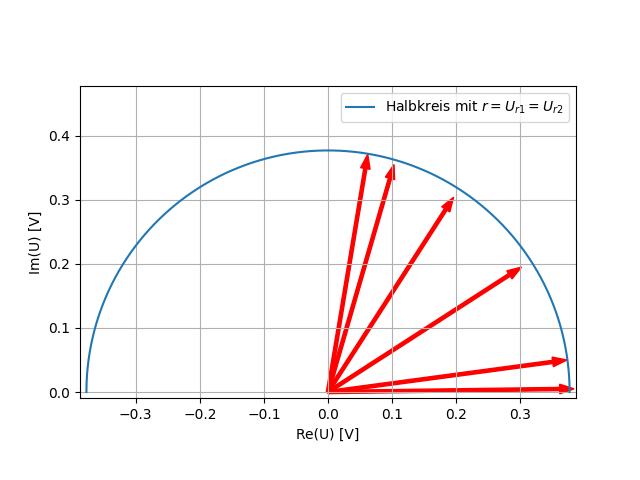
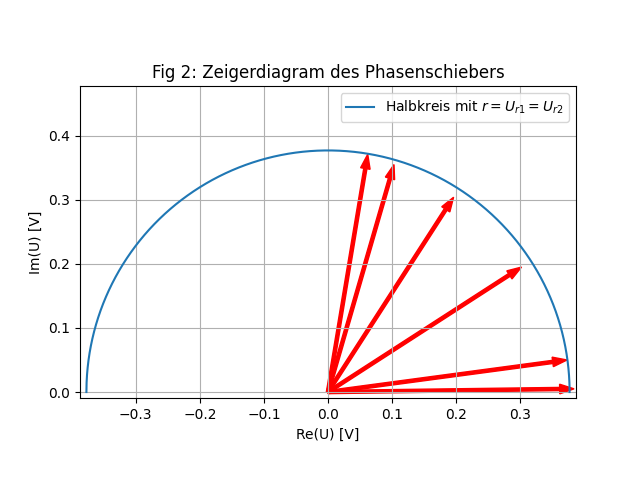
fixed some math errors in i

Changed region(s): [[0.2188, 0.125, 0.7812, 0.1875]]

diff --git a/234/auswertung.py b/234/auswertung.py
@@ -58,6 +58,7 @@ def c(preview):
 	plt.arrow(float(r), 0, 0, float(wl), width=0.01, head_width=0.1, head_length=0.1, label=labelWL, color="red", length_includes_head=True)
 	plt.arrow(0, 0, float(r), 0, width=0.01, head_width=0.1, head_length=0.1, label=labelR, color="green", length_includes_head=True)
 	plt.legend()
+	plt.title('Fig 1: Zeigerdiagram des komplexen Widerstands einer Spule')
 
 	if preview:
 		plt.show()
@@ -85,6 +86,7 @@ def d(preview):
 	plt.xlabel("Re(U) [V]")
 	plt.ylabel("Im(U) [V]")
 	plt.legend()
+	plt.title('Fig 2: Zeigerdiagram des Phasenschiebers')
 
 	if preview:
 		plt.show()
@@ -155,16 +157,9 @@ def filter_graph(data, suffix, preview):
 	db_values = forward(ua)
 	db_err = np.sqrt(sq(20 / (ua * np.log(10))) * sq(ua * 1e-2) + sq(20 / (ue * np.log(10))) * sq(ue * 1e-2))
 
-	easyparse.write_printable({
-		'dB(U_a)': db_values,
-		'db_err': db_err,
-	}, '234e_' + suffix + '.csv')
-
-
 	plt.xscale('log')
 	#plt.yscale('function', functions=(inverse, forward))
 	plt.ylim([min(db_values) - 1, 0.5])
-
 
 	plt.ylabel(r'$dB(A) = 20 \times \log_{10}{(\frac{U_a}{U_e})}$')
 	plt.xlabel(r'$\Omega = \frac{\nu}{\nu_{gr}}$')
@@ -172,17 +167,23 @@ def filter_graph(data, suffix, preview):
 	if suffix == 'b':
 		f0_index = np.where(ua == min(ua))[0][0]
 		f0 = f[f0_index]
+		f0_ = ev(f0, f0 * 5e-2)
 
-		q_theo = 1 / (2 * np.pi * f0 * 1e3 * R * C)
-		note('Q_theo = ' + str(round(q_theo, 2)))
+		q_theo = 1 / (2 * np.pi * f0_ * 1e3 * R * C)
+		note('Q_theo = ' + str(q_theo))
 
 
 		intersects = all_intersects(f, ua, ue / np.sqrt(2))
 		df1 = intersects[0]
 		df2 = intersects[1]
+		df1_ = ev(df1, df1 * 5e-2)
+		df2_ = ev(df2, df2 * 5e-2)
 
-		q_exp = f0 / (df2 - df1)
-		note('Q_exp = ' + str(round(q_exp, 2)))
+		note('fgr1 = ' + str(df1_) + ' kHz')
+		note('fgr2 = ' + str(df2_) + ' kHz')
+		note('f0 = ' + str(f0_) + ' kHz')
+		q_exp = f0_ / (df2_ - df1_)
+		note('Q_exp = ' + str(q_exp))
 
 		plt.vlines([df1 / f0, df2 / f0], min(db_values) - 2, 1, color="green", linestyle='--', label=r'$\nu_{gr}$')
 		plt.vlines([1], min(db_values) - 2, 1, color="blue", linestyle='--', label=r'$\nu_{0}$')
@@ -194,11 +195,11 @@ def filter_graph(data, suffix, preview):
 	else:	
 		fgr_theo = 1e-3 / (2 * np.pi * R * C) #1e-3 hz -> khz
 		fgr = all_intersects(f, ua, ue / np.sqrt(2))[0]
-		fgr_label = r'$ \nu_{gr} =' + str(round(fgr, 2)) + ' kHz$'
-		fgr_theo_label = r'$ \nu_{gr, theo} =' + str(round(fgr_theo, 2)) + ' kHz$'
+		fgr_label = r'$ \nu_{gr} =' + str(round(fgr, 3)) + ' kHz$'
+		fgr_theo_label = r'$ \nu_{gr, theo} =' + str(round(fgr_theo, 3)) + ' kHz$'
 
-		note("f_gr_theo_" + suffix + " = " + str(round(fgr_theo, 2)) + ' kHz')
-		note("f_gr_exp_" + suffix + " = " + str(round(fgr, 2)) + ' kHz')
+		note("f_gr_theo_" + suffix + " = " + str(round(fgr_theo, 3)) + ' kHz')
+		note("f_gr_exp_" + suffix + " = " + str(round(fgr, 3)) + ' kHz')
 
 		plt.errorbar(f / fgr, db_values, db_err,  fmt='x', label='Messwerte')
 
@@ -213,11 +214,11 @@ def filter_graph(data, suffix, preview):
 	plt.legend()
 
 	if suffix == 'lp':
-		plt.title(r'Fig 3: Tiefpass Filter')
+		plt.title(r'Fig 3a: Tiefpass Filter')
 	if suffix == 'hp':
-		plt.title(r'Fig 4: Hochpass Filter')
+		plt.title(r'Fig 3b: Hochpass Filter')
 	if suffix == 'b':
-		plt.title(r'Fig 5: Sperrfilter')
+		plt.title(r'Fig 3c: Sperrfilter')
 
 	if preview:
 		plt.show()
@@ -245,7 +246,7 @@ def e(preview):
 		'delta_dB_highpass': hpe,
 		'dB_Sperrfilter': b, 
 		'delta_dB_Sperrfilter': be,
-	}, '234e.csv')
+	}, 'results/234e.csv')
 
 
 
@@ -263,6 +264,8 @@ def i(preview):
 
 	note('i:')
 	note('f_max_exp = ' + str(f_max))
+	note('U_max = ' + str(percent_error(max(u))) + ' V')
+	note('U(f=0) = ' + str(percent_error(u[0])) + ' V')
 
 	intersects = all_intersects(f, u, max(u) / np.sqrt(2))
 	f1, f2 = intersects[0], intersects[1]
@@ -275,7 +278,7 @@ def i(preview):
 	delta_f = f2_ - f1_
 
 	#Q aus resonanzueberhoeung:
-	Q_u = u_max / percent_error(u[0])
+	Q_u = u_max / percent_error(u[1])
 	note('Q aus der Resonanzueberhoehung:')
 	note('Q_u = ' + str(Q_u))
 
@@ -285,12 +288,15 @@ def i(preview):
 	note('Q_delta_f = ' + str(Q_delta_w))
 
 
+	w_max = f_max / (2 * np.pi)
 	#Q aus Q = w0 * L / Rl
-	w0 = (1 / sq(L * C)) ** 0.5
-	note('w_0=' + str(w0))
+	w0 = (1 / np.sqrt(L * C))
+	#w0 = w_max / ((1 - (1 / (2 * sq(Q_delta_w)))) ** 0.5)
+	note('w_0=' + str(round(w0, 3)))
+	note('f_0=' + str(round(w0 / (2 * np.pi), 3)))
 	Q_3 = w0 * L / R
 	note('Q aus der der letzten Formel:')
-	note('Q_form = ' + str(Q_3))
+	note('Q_form = ' + str(round(Q_3, 3)))
 
 
 	plt.grid()
@@ -305,6 +311,7 @@ def i(preview):
 	plt.vlines(f2, 0, max(u) + 1, color='red', linestyle='--', label=r'$\nu_{gr, 2} =' + str(round(f2, 2)) +'Hz$')
 	plt.hlines([max(u) / (np.sqrt(2))], 0, max(f) + 10, color='yellow', linestyle='--', label=r'$\frac{U_{max}}{\sqrt{2}}$')
 
+	plt.title('Fig 4: Resonanzkurve des Schwingkreises')
 	plt.legend()
 	
 	if preview:
